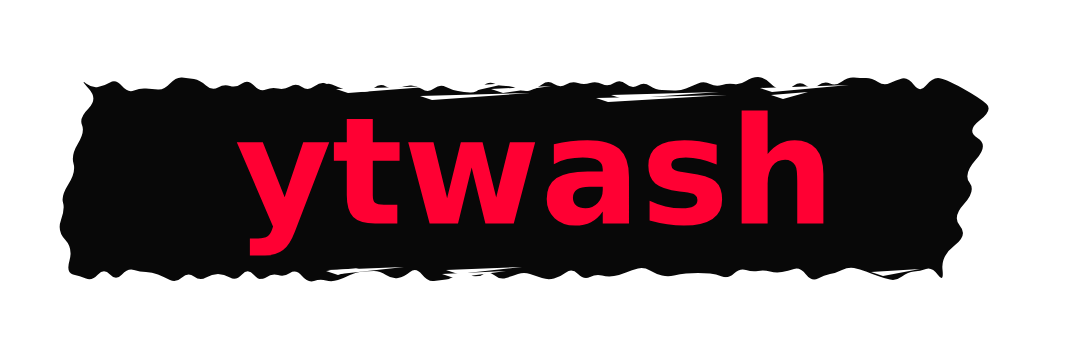
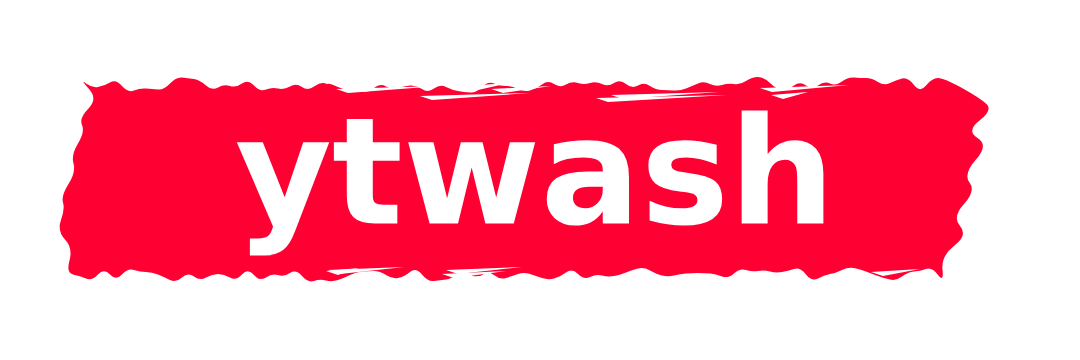
Use red brush stroke with white ytwash lettering

diff --git a/assets/brand/README.md b/assets/brand/README.md
@@ -16,4 +16,4 @@ Recreate PNG exports with `PLAYWRIGHT_BROWSERS_PATH=/path/to/browsers node scrip
 
 The painter’s brush uses simple original SVG paths with broad bristle cuts for clarity at small sizes.
 
-`brush-wordmark.svg`: red lowercase ytwash on an original black dry-brush paint stroke, transparent exterior; lettering outlined for portable SVG rendering. DejaVu font license retained in FONT-LICENSE.txt.
+`brush-wordmark.svg`: white lowercase ytwash on an original red dry-brush paint stroke, transparent exterior; lettering outlined for portable SVG rendering. DejaVu font license retained in FONT-LICENSE.txt.
